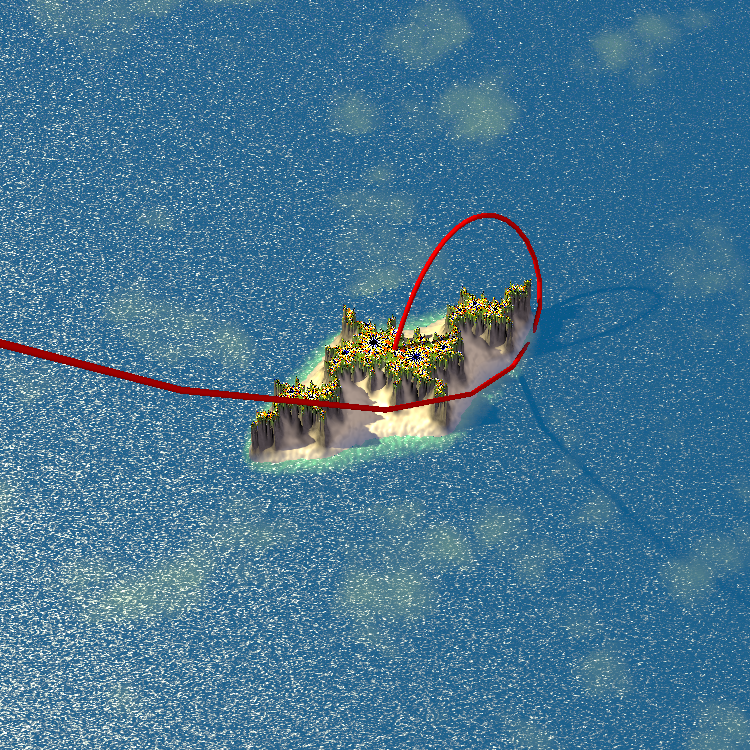
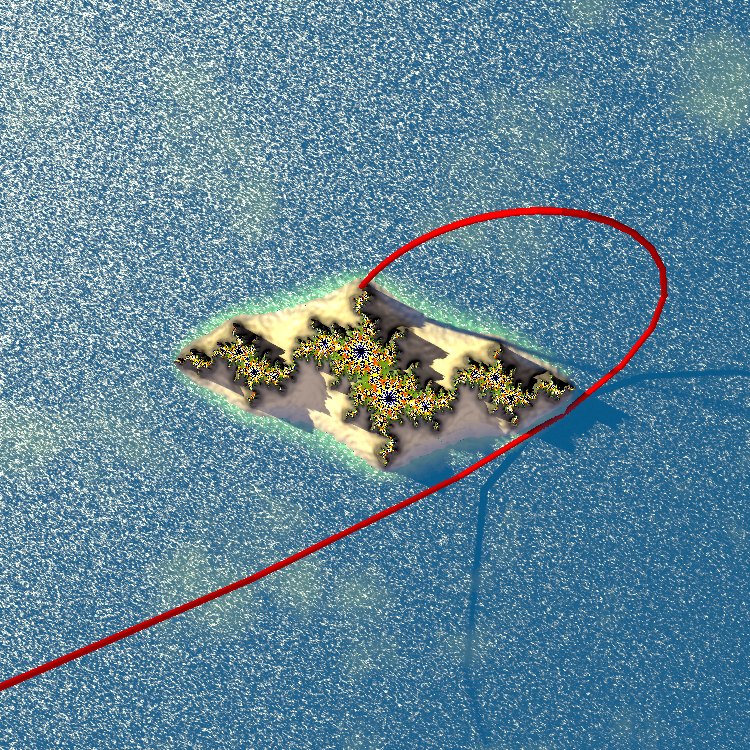
committed changes

diff --git a/povraydemo-setup2.rb b/povraydemo-setup2.rb
@@ -41,7 +41,7 @@ AWS.config(config)
 
 # CREATE JULIA ISLE QUEUE
 sqs = AWS::SQS.new
-queue = sqs.queues.create("JuliaIsleQueue", :visibility_timeout=>300)
+queue = sqs.queues.create("JuliaIsleQueue", :visibility_timeout=>600)
 puts "Created JuliaIsleQueue"
 pp sqs.queues.collect(&:url)
 
@@ -51,12 +51,22 @@ pp sqs.queues.collect(&:url)
 ###########
 
 # spline control points
-cx = [-1.5,  2.0, 0.5,  0.0018328]
-cy = [ 2.5, -3.0,  2.5,  0.2501]
-cz = [-1.0,  0.25,  0.0,  0.002515]
+#cx = [-1.5,  2.0, 0.5,  0.0018328]
+#cy = [ 2.5, -3.0,  2.5,  0.2501]
+#cz = [-1.0,  0.25,  0.0,  0.002515]
+
+# to the center
+#cx = [-1.5,  2.5, 0.5,  0.0018328]
+#cy = [ 2.5, -4.2,  5,  0.2501]
+#cz = [-1.0,  0.25,  0.75,  0.002515]
+
+# to an edge point
+cx = [-1.5,  2.5,  0.5,  -0.046018]
+cy = [ 2.5, -4.2,  5,     0.250001]
+cz = [-1.0,  0.15, 0.75,  0.300010]
 
 # iterate through frames
-duration   = 10 # seconds
+duration   = 20 # seconds
 fps        = 30
 num_frames = (duration * fps).ceil #returns Integer ceiling
 
@@ -75,7 +85,7 @@ for f in 0..num_frames
     t = Float(f)/num_frames
   elsif spacing == "exponential" then
     fration = Float(f)/num_frames
-    final_fraction = Float(0.001)
+    final_fraction = Float(0.0001)
     scale_factor = final_fraction**(1.0/(num_frames-1))
     t = 1-scale_factor**(f-1)
   end
@@ -93,9 +103,11 @@ loc_x = Array.new
 loc_y = Array.new
 loc_z = Array.new
 
-for f in 0..num_frames-1
+for f in 1..num_frames
   location_text = "<#{px[f]},#{py[f]},#{pz[f]}>"
-  lookat_text =   "<#{px[f+1]},#{py[f+1]},#{pz[f+1]}>"
+#  lookat_text =   "<#{px[f]-px[f-1]},#{py[f]-py[f-1]},#{pz[f]-pz[f-1]}>"
+#  lookat_text = "<0.0018328,0.2501,0.002515>"
+  lookat_text = "<-0.046018,0.25,0.30001>"
 
   num_zeros = "#{num_frames}".length - "#{f}".length
   frame_num_text = "0"*num_zeros + "#{f}"

diff --git a/pathmaker/povraydemo-create-path-file.rb b/pathmaker/povraydemo-create-path-file.rb
@@ -14,17 +14,12 @@ end
 puts @opts.inspect
 
 # spline control points
-#cx = [-1.5, 1.5,  1.5,  0.0018328]
-cx = [-1.5,  2.0, 0.5,  0.0018328]
-#cy = [ 2.5,  0.25, 0.25, 0.2501]
-cy = [ 2.5, -3.0,  2.5,  0.2501]
-#cz = [-1.0, -1.0,  1.0,  0.002515]
-cz = [-1.0,  0.25,  0.0,  0.002515]
-
-#loc_x_f =  0.0018328
-#loc_y_f =  0.2501
-#loc_z_f =  0.002515
-
+#cx = [-1.5,  2.5, 0.5,  0.0018328]
+#cy = [ 2.5, -4.2,  5,  0.2501]
+#cz = [-1.0,  0.25,  0.75,  0.002515]
+cx = [-1.5,  2.5,  0.5,  -0.046018]
+cy = [ 2.5, -4.2,  5,     0.2500001]
+cz = [-1.0,  0.15, 0.75,  0.300010]
 
 # iterate through frames
 duration   = 2 # seconds

diff --git a/povraydemo-monitor.rb b/povraydemo-monitor.rb
@@ -101,4 +101,11 @@ o.write(:file => movie_file_name)
 puts "To see the movie, visit this URL:"
 puts o.url_for(:read)
 
+puts "Press 'D' to delete to delete all frame*.png files; press any other key to exit."
+c = $stdin.getc
+
+if c == 'D' then
+  `rm -v frame*.png`
+end
+
 puts "********** DONE! **********"
